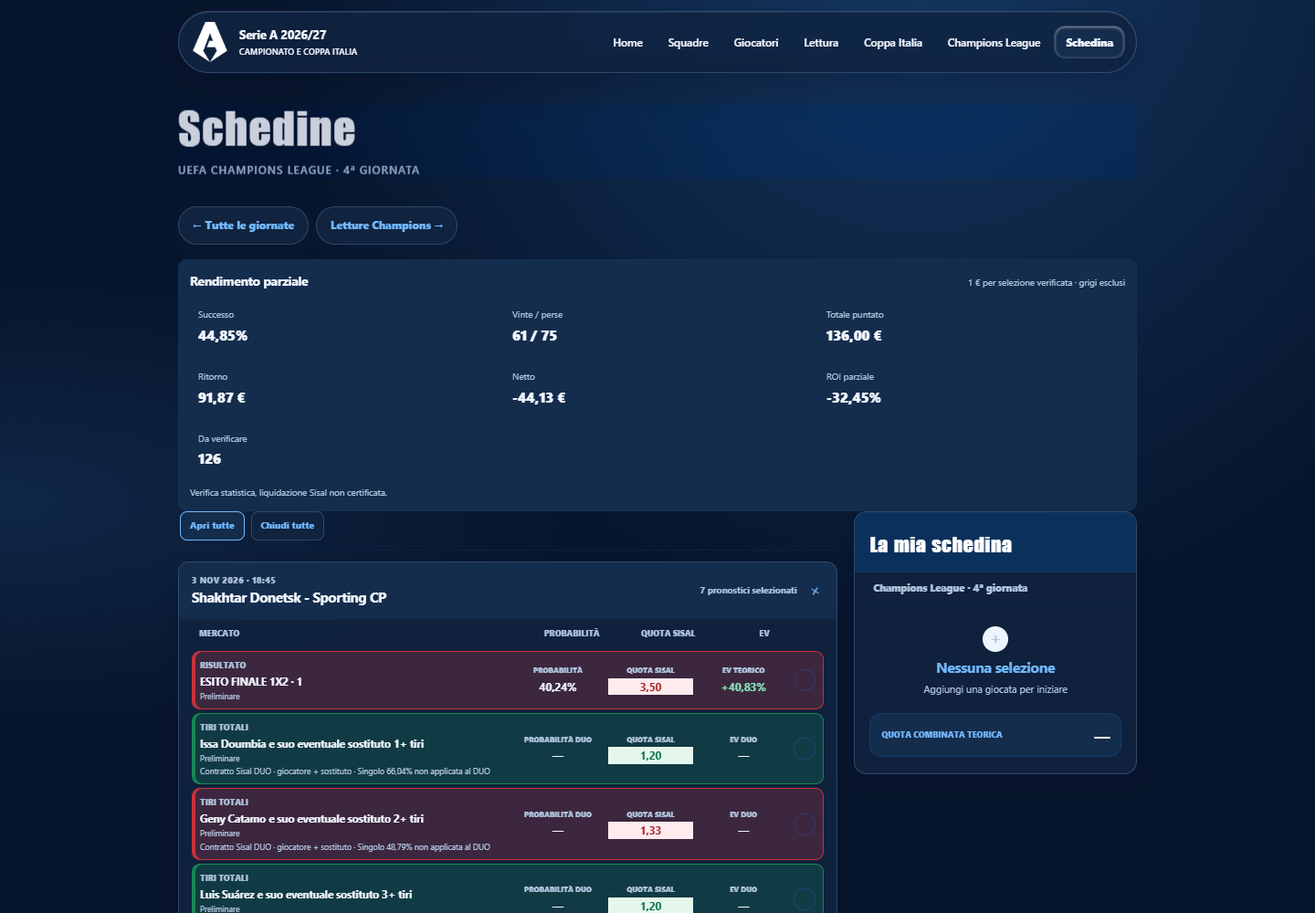
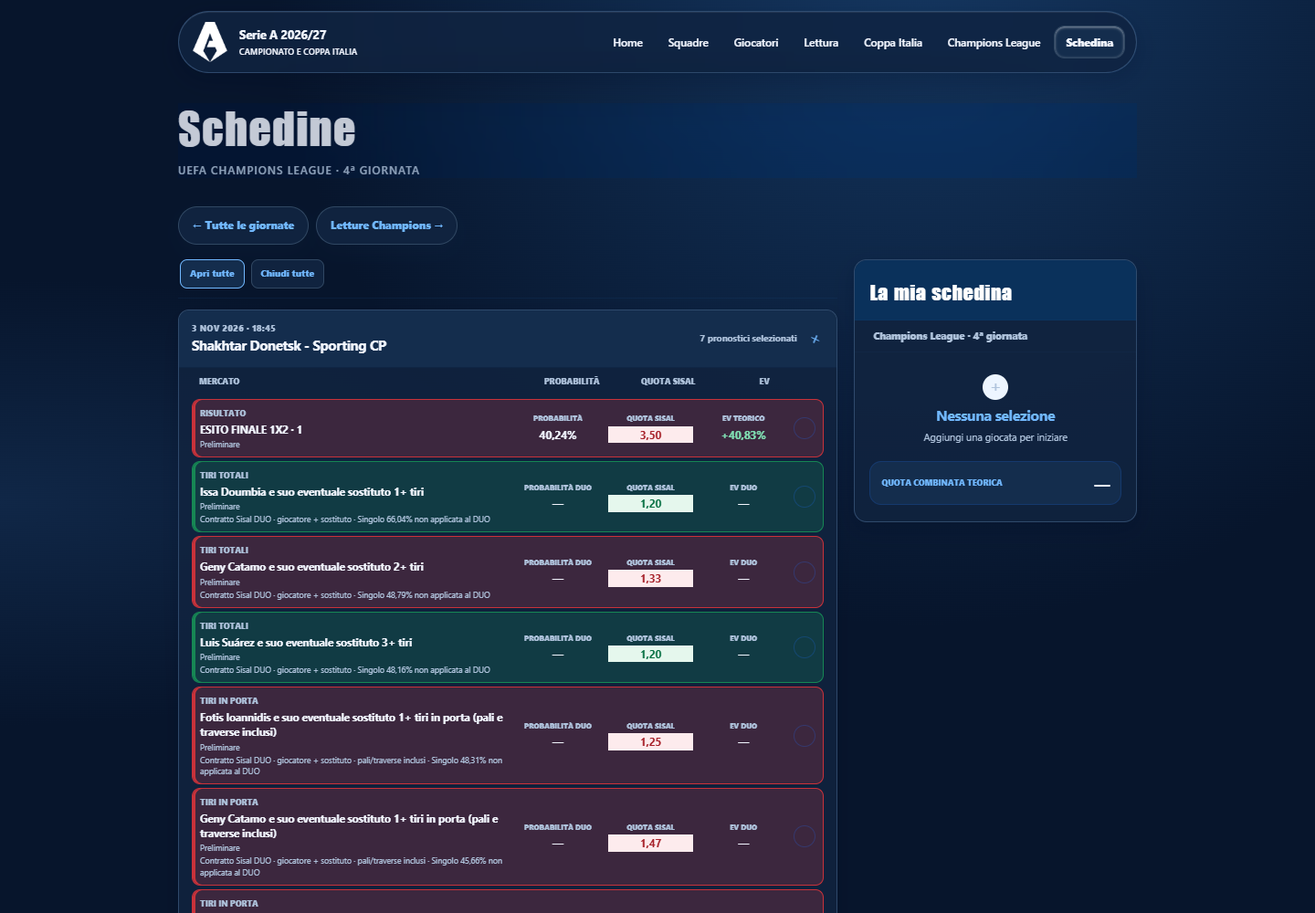
champions league

diff --git a/js/pages/betting.js b/js/pages/betting.js
@@ -372,11 +372,6 @@ export function createPage(deps){
     return `<div class="betting-stage betting-champions-stage"><header class="betting-intro"><div><p class="eyebrow">Champions League · 1ª giornata</p><h3>${data.slips.length} schedine costruite dal modello</h3></div><p>Tiri, gol e assist, multigol, due poker ammoniti e tre schedine giornaliere. Quote e proiezioni originali archiviate.</p></header><p class="betting-coverage">${data.summary.legs} selezioni complessive su ${data.summary.distinctFixtures} gare. Quota minima per selezione: 1.10.</p><p class="betting-coverage">${data.settlementSummary?.won??0} vinte · ${data.settlementSummary?.lost??0} perse · ${data.settlementSummary?.pending??data.summary.legs} da verificare. ${esc(data.settlementNote||"")}</p><div class="betting-slip-grid">${data.slips.map(championsSlipCard).join("")}</div><footer class="betting-method"><strong>Criterio Champions</strong><p>${esc(data.selectionRule)}</p><p>${esc(data.methodology)}</p><p>Quote ${esc(data.provider)} aggiornate al ${esc(dateOnly(data.oddsRetrievedAt))}. Gioca responsabilmente.</p></footer></div>`;
   }
 
-  function championsAuditEconomics(summary){
-    const signed=value=>`${value>0?"+":""}${odds(value)} €`;
-    return `<section class="betting-audit-economics" data-audit-economics data-stake="${summary.stakeEuro}" data-return="${summary.grossReturnEuro}" data-net="${summary.profitLossEuro}" data-roi="${summary.roiPct??""}" data-pending="${summary.pending}" aria-label="Rendimento parziale della partita"><header><strong>Rendimento parziale</strong><span>1 € per selezione verificata · grigi esclusi</span></header><dl>${Number.isFinite(summary.successPct)?`<div><dt>Successo</dt><dd>${pct(summary.successPct)}%</dd></div>`:""}<div><dt>Vinte / perse</dt><dd>${summary.won} / ${summary.lost}</dd></div><div><dt>Totale puntato</dt><dd>${odds(summary.stakeEuro)} €</dd></div><div><dt>Ritorno</dt><dd>${odds(summary.grossReturnEuro)} €</dd></div><div><dt>Netto</dt><dd>${signed(summary.profitLossEuro)}</dd></div><div><dt>ROI parziale</dt><dd>${summary.roiPct>0?"+":""}${metric(summary.roiPct,pct,"%")}</dd></div><div><dt>Da verificare</dt><dd>${summary.pending}</dd></div></dl><p>Verifica statistica, liquidazione Sisal non certificata.${summary.void?` ${summary.void} selezioni annullate escluse dal puntato e dal ROI.`:""}</p></section>`;
-  }
-
   function championsMd02Content(data){
     const selections=data.fixtures.flatMap(fixture=>fixture.selections||[]).filter(meetsMinimumPublicOdds);
     const stats=archiveStats({matchday:2,slips:[{legs:selections}]},null,leg=>leg.settlement||{status:"pending"});
@@ -387,7 +382,7 @@ export function createPage(deps){
     const panels=data.fixtures.map((fixture,index)=>{
       const legs=(fixture.selections||[]).filter(meetsMinimumPublicOdds);
       const marketList=legs.length?`<div class="betting-market-columns" aria-hidden="true"><span></span><span>Probabilità</span><span>Quota Sisal</span><span>EV</span><span></span></div><ol class="betting-market-list">${legs.map((leg,rowIndex)=>selectableMarketRow({leg,sourceSection:leg.marketScope==="player"?"champions-md02-individuale":"champions-md02-verdetto",showContractNote:false},rowIndex,leg.fixture,fixture)).join("")}</ol>`:`<p class="betting-market-empty">Il forecast esiste, ma non è stata trovata una quota Sisal esatta: nessuna selezione è stata forzata.</p>`;
-      return `<details class="betting-match-panel" data-match-panel data-match-id="${esc(fixture.fixtureId)}"${index===0?" open":""}><summary><span><small>${esc(dateOnly(fixture.date))} · ${esc(fixture.kickoff||"Orario N/D")}</small><strong>${esc(fixture.homeTeam)} - ${esc(fixture.awayTeam)}</strong></span><span class="betting-match-count">${legs.length} ${legs.length===1?"pronostico selezionato":"pronostici selezionati"}</span><span class="betting-match-toggle" aria-hidden="true">＋</span></summary><div class="betting-match-body">${marketList}${fixture.auditSummary?championsAuditEconomics(fixture.auditSummary):""}<a class="betting-match-reading-link" href="${esc(fixture.readingUrl)}">Apri la lettura della partita →</a></div></details>`;
+      return `<details class="betting-match-panel" data-match-panel data-match-id="${esc(fixture.fixtureId)}"${index===0?" open":""}><summary><span><small>${esc(dateOnly(fixture.date))} · ${esc(fixture.kickoff||"Orario N/D")}</small><strong>${esc(fixture.homeTeam)} - ${esc(fixture.awayTeam)}</strong></span><span class="betting-match-count">${legs.length} ${legs.length===1?"pronostico selezionato":"pronostici selezionati"}</span><span class="betting-match-toggle" aria-hidden="true">＋</span></summary><div class="betting-match-body">${marketList}<a class="betting-match-reading-link" href="${esc(fixture.readingUrl)}">Apri la lettura della partita →</a></div></details>`;
     }).join("");
     return `<section class="betting-essential betting-champions-md02-summary" aria-labelledby="champions-md02-summary-title"><h3 id="champions-md02-summary-title">In sintesi</h3><p class="betting-coverage"><strong>${data.summary.fixtures} partite · ${data.summary.predictions} pronostici</strong> · ${data.isAuditArchive?"Archivio originale · sola consultazione":`${data.summary.clickableSelections} selezioni con quota Sisal valida`}.</p><p>${esc(data.selectionRule)}</p><p><strong>Rendimento parziale:</strong> ${esc(economic)} Grigi esclusi dai calcoli; 1 € per selezione verificata.</p>${data.filteredAuditSummary?`<p>Filtro titolari: ${data.filteredAuditSummary.won} vinte · ${data.filteredAuditSummary.lost} perse · ROI parziale ${pct(data.filteredAuditSummary.roiPct)}%. I 4 contratti esclusi restano visibili soltanto nell’archivio.</p>`:""}<div class="betting-result-legend" aria-label="Legenda esiti audit"><span class="betting-result-legend--won">Verde · vinto</span><span class="betting-result-legend--lost">Rosso · perso</span><span class="betting-result-legend--pending">Grigio · da verificare</span><span class="betting-result-legend--void">Neutro · annullato</span></div></section><section class="betting-matchday-shell betting-champions-md02-markets" aria-label="Pronostici Champions della seconda giornata"><header class="betting-matchday-heading"><div class="betting-matchday-actions"><button type="button" data-match-open-all>Apri tutte</button><button type="button" data-match-close-all>Chiudi tutte</button></div></header><div class="betting-match-list">${panels}</div><footer class="betting-method"><strong>Criterio Champions</strong><p>${esc(data.methodology)}</p><p>${esc(data.settlementPolicy)}</p></footer></section>`;
   }
@@ -410,12 +405,8 @@ export function createPage(deps){
     prepareChampionsWorkspace(workspace);
     const visible=workspace.fixtures.filter(f=>!fixtureId||f.id===fixtureId),matches=new Map(visible.map(f=>[f.id,f])),teams=new Map();
     const count=workspace.all.filter(leg=>leg.suggestionAnalysis?.suggested).length;
-    const economicsLegs=workspace.matchday===1?workspace.source.slips.flatMap(s=>s.legs):workspace.all.filter(leg=>leg.catalogOrigin!=='champions-md03-individual-model'&&leg.suggestionAnalysis?.suggested);
-    const allMatches=new Map(workspace.fixtures.map(f=>[f.id,f]));
-    const stats=archiveStats({matchday:workspace.matchday,slips:[{legs:fixtureId?economicsLegs.filter(leg=>leg.matchId===fixtureId):economicsLegs}]},allMatches,leg=>leg.settlement&&workspace.matchday<3?leg.settlement:settleLeg(leg,allMatches.get(leg.matchId)));
-    const economics=stats.archiveStake?championsAuditEconomics({stakeEuro:stats.archiveStake,grossReturnEuro:stats.archiveGrossReturn,profitLossEuro:stats.archiveNetProfit,roiPct:stats.archiveProfitPct,successPct:stats.archiveStake>0?stats.archiveSuccessPct:null,won:stats.archiveWins,lost:stats.archiveStake-stats.archiveWins,pending:stats.archivePending,void:stats.archiveVoids}):'<p class="betting-coverage">Da giocare · importo giocato, vincite, netto, ROI e successo: N/D. Simulazione di 1 € per previsione con esito verificato.</p>';
     // Both competitions use the same rows, match panels, combo renderer and personal controller.
-    return `<section class="betting-round-page betting-round-page--workspace betting-round-page--champions" data-champions-workspace="${workspace.matchday}">${fixtureId&&workspace.matchday===3?'<header class="rd-section-heading"><span class="rd-section-number">03</span><h2>Pronostici e MyCombo</h2></header>':""}<header class="betting-round-heading"><p class="eyebrow">Champions League · ${esc(workspace.season)}</p><h2>${workspace.matchday}ª giornata${fixtureId?" · pronostici":""}</h2></header>${workspace.matchday===3?"":economics}<div class="betting-workspace"><div class="betting-workspace-content">${matchdayWorkspaceContent(workspace,[],matches,teams,workspace.matchday)}</div><aside class="betting-personal-column" data-personal-host aria-label="Costruttore della schedina personale"></aside></div></section>`;
+    return `<section class="betting-round-page betting-round-page--workspace betting-round-page--champions" data-champions-workspace="${workspace.matchday}">${fixtureId&&workspace.matchday===3?'<header class="rd-section-heading"><span class="rd-section-number">03</span><h2>Pronostici e MyCombo</h2></header>':""}<header class="betting-round-heading"><p class="eyebrow">Champions League · ${esc(workspace.season)}</p><h2>${workspace.matchday}ª giornata${fixtureId?" · pronostici":""}</h2></header><div class="betting-workspace"><div class="betting-workspace-content">${matchdayWorkspaceContent(workspace,[],matches,teams,workspace.matchday)}</div><aside class="betting-personal-column" data-personal-host aria-label="Costruttore della schedina personale"></aside></div></section>`;
   }
 
   function mountChampionsWorkspace(workspace){
@@ -442,7 +433,8 @@ export function createPage(deps){
       const number=index+1;
       return {date:firstDate([...matchById.values()].filter(m=>m.matchday===number)),html:archiveCard(data,number,matchById)};
     });
-    const championsMd04=await load('schedina-champions-md04.json');
+    const md4Workspace=await loadChampionsWorkspaceMd3Derived(load,4);
+    const championsMd04={...md4Workspace.source,slips:[{legs:md4Workspace.all.filter(leg=>leg.suggestionAnalysis?.suggested)}]};
     for(const [index,data] of [champions,championsMd02,championsMd03,championsMd04].entries()){
       const number=index+1;
       cards.push({date:firstDate(championsCalendar.fixtures.filter(f=>f.matchday===number)),html:championsArchiveCard(data,number)});

diff --git a/champions-league.html b/champions-league.html
@@ -1,2 +1,2 @@
 <!doctype html>
-<html lang="it"><head><meta charset="utf-8"><meta name="viewport" content="width=device-width,initial-scale=1"><meta name="description" content="Serie A e Coppa Italia 2026/27: Champions League"><title>Champions League | Serie A 2026/27</title><link rel="icon" type="image/png" href="assets/images/serie-a-logo-mark.png"><link rel="manifest" href="manifest.webmanifest"><meta name="theme-color" content="#102541"><meta name="apple-mobile-web-app-capable" content="yes"><meta name="apple-mobile-web-app-status-bar-style" content="default"><meta name="apple-mobile-web-app-title" content="Serie A"><link rel="apple-touch-icon" href="assets/app/icon-180.png"><link rel="stylesheet" href="css/install-app.css?v=2"><script defer src="js/install-app.js?v=2"></script><link rel="preconnect" href="https://fonts.googleapis.com"><link rel="preconnect" href="https://fonts.gstatic.com" crossorigin><link href="https://fonts.googleapis.com/css2?family=Anton&family=Inter:ital,opsz,wght@0,14..32,100..900;1,14..32,100..900&display=swap" rel="stylesheet"><!-- page-styles:start --><script data-page-styles>document.write(new URLSearchParams(location.search).has('match')?"<link rel=\"stylesheet\" href=\"css/pages/champions-detail.css?v=19476e1e3594\" data-reading-detail-css>":"<link rel=\"stylesheet\" href=\"css/pages/champions.css?v=0b01f1933505\">")</script><!-- page-styles:end --><script src="js/public-presentation.js?v=20261016-public-policy"></script></head><body data-page="champions"><script src="js/initial-presentation.js?v=7167ca25b816"></script><header id="site-top" class="site-header"><a class="brand" href="index.html"><span class="brand-mark"><img src="assets/images/optimized/serie-a-logo-mark.webp" alt=""></span><span><strong>Serie A 2026/27</strong><small>Campionato e Coppa Italia</small></span></a><button class="menu-button" type="button" aria-controls="site-nav" aria-expanded="false">Menu</button><nav id="site-nav" class="site-nav" aria-label="Navigazione principale"><a class="page-link" data-page-link="home" href="index.html">Home</a><a class="page-link" data-page-link="team-stats" href="statistiche-squadre.html">Squadre</a><a class="page-link" data-page-link="player-stats" href="statistiche-giocatori.html">Giocatori</a><a class="page-link" data-page-link="readings" href="lettura.html">Lettura</a><a class="page-link" data-page-link="cup" href="coppa-italia.html">Coppa Italia</a><a class="page-link active" data-page-link="champions" href="champions-league.html">Champions League</a><a class="page-link" data-page-link="betting" href="schedina.html">Schedina</a></nav></header><main id="app" tabindex="-1"><section class="loading"><p class="eyebrow">Caricamento</p><h1>Champions League</h1></section></main><footer class="site-footer"><div class="site-footer-inner"><div class="site-footer-top"><div class="site-footer-intro"><a class="footer-brand" href="index.html"><span class="footer-brand-mark"><img src="assets/images/optimized/serie-a-logo-mark.webp" alt=""></span><span><strong>Serie A 2026/27</strong><small>Campionato e Coppa Italia</small></span></a><p>Calendario, rose, statistiche e letture della stagione raccolti in un unico spazio.</p><span class="footer-season">Stagione 2026/27</span></div><nav class="footer-nav" aria-label="Navigazione nel footer"><div><strong>Campionato</strong><a href="index.html">Home</a><a href="statistiche-squadre.html">Squadre</a><a href="statistiche-giocatori.html">Giocatori</a></div><div><strong>Approfondimenti</strong><a href="lettura.html">Lettura</a><a href="coppa-italia.html">Coppa Italia</a><a href="champions-league.html">Champions League</a><a href="schedina.html">Schedina</a></div></nav></div><div class="site-footer-bottom"><p>Progetto statico indipendente</p><a href="#site-top">Torna su <span aria-hidden="true">↑</span></a></div></div></footer><script type="module" src="js/app.js?v=20261103-champions-referee-stats-v1-headings-f97c352a477e"></script></body></html>
+<html lang="it"><head><meta charset="utf-8"><meta name="viewport" content="width=device-width,initial-scale=1"><meta name="description" content="Serie A e Coppa Italia 2026/27: Champions League"><title>Champions League | Serie A 2026/27</title><link rel="icon" type="image/png" href="assets/images/serie-a-logo-mark.png"><link rel="manifest" href="manifest.webmanifest"><meta name="theme-color" content="#102541"><meta name="apple-mobile-web-app-capable" content="yes"><meta name="apple-mobile-web-app-status-bar-style" content="default"><meta name="apple-mobile-web-app-title" content="Serie A"><link rel="apple-touch-icon" href="assets/app/icon-180.png"><link rel="stylesheet" href="css/install-app.css?v=2"><script defer src="js/install-app.js?v=2"></script><link rel="preconnect" href="https://fonts.googleapis.com"><link rel="preconnect" href="https://fonts.gstatic.com" crossorigin><link href="https://fonts.googleapis.com/css2?family=Anton&family=Inter:ital,opsz,wght@0,14..32,100..900;1,14..32,100..900&display=swap" rel="stylesheet"><!-- page-styles:start --><script data-page-styles>document.write(new URLSearchParams(location.search).has('match')?"<link rel=\"stylesheet\" href=\"css/pages/champions-detail.css?v=9a7d83be6a18\" data-reading-detail-css>":"<link rel=\"stylesheet\" href=\"css/pages/champions.css?v=21221341a264\">")</script><!-- page-styles:end --><script src="js/public-presentation.js?v=20261016-public-policy"></script></head><body data-page="champions"><script src="js/initial-presentation.js?v=7167ca25b816"></script><header id="site-top" class="site-header"><a class="brand" href="index.html"><span class="brand-mark"><img src="assets/images/optimized/serie-a-logo-mark.webp" alt=""></span><span><strong>Serie A 2026/27</strong><small>Campionato e Coppa Italia</small></span></a><button class="menu-button" type="button" aria-controls="site-nav" aria-expanded="false">Menu</button><nav id="site-nav" class="site-nav" aria-label="Navigazione principale"><a class="page-link" data-page-link="home" href="index.html">Home</a><a class="page-link" data-page-link="team-stats" href="statistiche-squadre.html">Squadre</a><a class="page-link" data-page-link="player-stats" href="statistiche-giocatori.html">Giocatori</a><a class="page-link" data-page-link="readings" href="lettura.html">Lettura</a><a class="page-link" data-page-link="cup" href="coppa-italia.html">Coppa Italia</a><a class="page-link active" data-page-link="champions" href="champions-league.html">Champions League</a><a class="page-link" data-page-link="betting" href="schedina.html">Schedina</a></nav></header><main id="app" tabindex="-1"><section class="loading"><p class="eyebrow">Caricamento</p><h1>Champions League</h1></section></main><footer class="site-footer"><div class="site-footer-inner"><div class="site-footer-top"><div class="site-footer-intro"><a class="footer-brand" href="index.html"><span class="footer-brand-mark"><img src="assets/images/optimized/serie-a-logo-mark.webp" alt=""></span><span><strong>Serie A 2026/27</strong><small>Campionato e Coppa Italia</small></span></a><p>Calendario, rose, statistiche e letture della stagione raccolti in un unico spazio.</p><span class="footer-season">Stagione 2026/27</span></div><nav class="footer-nav" aria-label="Navigazione nel footer"><div><strong>Campionato</strong><a href="index.html">Home</a><a href="statistiche-squadre.html">Squadre</a><a href="statistiche-giocatori.html">Giocatori</a></div><div><strong>Approfondimenti</strong><a href="lettura.html">Lettura</a><a href="coppa-italia.html">Coppa Italia</a><a href="champions-league.html">Champions League</a><a href="schedina.html">Schedina</a></div></nav></div><div class="site-footer-bottom"><p>Progetto statico indipendente</p><a href="#site-top">Torna su <span aria-hidden="true">↑</span></a></div></div></footer><script type="module" src="js/app.js?v=20261103-champions-referee-stats-v1-headings-991349fccba3"></script></body></html>

diff --git a/schedina.html b/schedina.html
@@ -1,2 +1,2 @@
 <!doctype html>
-<html lang="it"><head><meta charset="utf-8"><meta name="viewport" content="width=device-width,initial-scale=1"><meta name="description" content="Serie A e Coppa Italia 2026/27: Schedina"><title>Schedina | Serie A 2026/27</title><link rel="icon" type="image/png" href="assets/images/serie-a-logo-mark.png"><link rel="manifest" href="manifest.webmanifest"><meta name="theme-color" content="#102541"><meta name="apple-mobile-web-app-capable" content="yes"><meta name="apple-mobile-web-app-status-bar-style" content="default"><meta name="apple-mobile-web-app-title" content="Serie A"><link rel="apple-touch-icon" href="assets/app/icon-180.png"><link rel="stylesheet" href="css/install-app.css?v=2"><script defer src="js/install-app.js?v=2"></script><link rel="preconnect" href="https://fonts.googleapis.com"><link rel="preconnect" href="https://fonts.gstatic.com" crossorigin><link href="https://fonts.googleapis.com/css2?family=Anton&family=Inter:ital,opsz,wght@0,14..32,100..900;1,14..32,100..900&display=swap" rel="stylesheet"><!-- page-styles:start --><link rel="stylesheet" href="css/pages/betting.css?v=775a3706494e"><!-- page-styles:end --><script src="js/public-presentation.js?v=20261016-schedina-selection-rows-v2"></script></head><body data-page="betting"><script src="js/initial-presentation.js?v=7167ca25b816"></script><header id="site-top" class="site-header"><a class="brand" href="index.html"><span class="brand-mark"><img src="assets/images/optimized/serie-a-logo-mark.webp" alt=""></span><span><strong>Serie A 2026/27</strong><small>Campionato e Coppa Italia</small></span></a><button class="menu-button" type="button" aria-controls="site-nav" aria-expanded="false">Menu</button><nav id="site-nav" class="site-nav" aria-label="Navigazione principale"><a class="page-link" data-page-link="home" href="index.html">Home</a><a class="page-link" data-page-link="team-stats" href="statistiche-squadre.html">Squadre</a><a class="page-link" data-page-link="player-stats" href="statistiche-giocatori.html">Giocatori</a><a class="page-link" data-page-link="readings" href="lettura.html">Lettura</a><a class="page-link" data-page-link="cup" href="coppa-italia.html">Coppa Italia</a><a class="page-link" data-page-link="champions" href="champions-league.html">Champions League</a><a class="page-link active" data-page-link="betting" href="schedina.html">Schedina</a></nav></header><main id="app" tabindex="-1"><section class="loading"><p class="eyebrow">Caricamento</p><h1>Schedina</h1></section></main><footer class="site-footer"><div class="site-footer-inner"><div class="site-footer-top"><div class="site-footer-intro"><a class="footer-brand" href="index.html"><span class="footer-brand-mark"><img src="assets/images/optimized/serie-a-logo-mark.webp" alt=""></span><span><strong>Serie A 2026/27</strong><small>Campionato e Coppa Italia</small></span></a><p>Calendario, rose, statistiche e letture della stagione raccolti in un unico spazio.</p><span class="footer-season">Stagione 2026/27</span></div><nav class="footer-nav" aria-label="Navigazione nel footer"><div><strong>Campionato</strong><a href="index.html">Home</a><a href="statistiche-squadre.html">Squadre</a><a href="statistiche-giocatori.html">Giocatori</a></div><div><strong>Approfondimenti</strong><a href="lettura.html">Lettura</a><a href="coppa-italia.html">Coppa Italia</a><a href="champions-league.html">Champions League</a><a href="schedina.html">Schedina</a></div></nav></div><div class="site-footer-bottom"><p>Progetto statico indipendente</p><a href="#site-top">Torna su <span aria-hidden="true">↑</span></a></div></div></footer><script type="module" src="js/app.js?v=20261102-champions-no-draw-v1-headings-f97c352a477e"></script></body></html>
+<html lang="it"><head><meta charset="utf-8"><meta name="viewport" content="width=device-width,initial-scale=1"><meta name="description" content="Serie A e Coppa Italia 2026/27: Schedina"><title>Schedina | Serie A 2026/27</title><link rel="icon" type="image/png" href="assets/images/serie-a-logo-mark.png"><link rel="manifest" href="manifest.webmanifest"><meta name="theme-color" content="#102541"><meta name="apple-mobile-web-app-capable" content="yes"><meta name="apple-mobile-web-app-status-bar-style" content="default"><meta name="apple-mobile-web-app-title" content="Serie A"><link rel="apple-touch-icon" href="assets/app/icon-180.png"><link rel="stylesheet" href="css/install-app.css?v=2"><script defer src="js/install-app.js?v=2"></script><link rel="preconnect" href="https://fonts.googleapis.com"><link rel="preconnect" href="https://fonts.gstatic.com" crossorigin><link href="https://fonts.googleapis.com/css2?family=Anton&family=Inter:ital,opsz,wght@0,14..32,100..900;1,14..32,100..900&display=swap" rel="stylesheet"><!-- page-styles:start --><link rel="stylesheet" href="css/pages/betting.css?v=2ac2e037880e"><!-- page-styles:end --><script src="js/public-presentation.js?v=20261016-schedina-selection-rows-v2"></script></head><body data-page="betting"><script src="js/initial-presentation.js?v=7167ca25b816"></script><header id="site-top" class="site-header"><a class="brand" href="index.html"><span class="brand-mark"><img src="assets/images/optimized/serie-a-logo-mark.webp" alt=""></span><span><strong>Serie A 2026/27</strong><small>Campionato e Coppa Italia</small></span></a><button class="menu-button" type="button" aria-controls="site-nav" aria-expanded="false">Menu</button><nav id="site-nav" class="site-nav" aria-label="Navigazione principale"><a class="page-link" data-page-link="home" href="index.html">Home</a><a class="page-link" data-page-link="team-stats" href="statistiche-squadre.html">Squadre</a><a class="page-link" data-page-link="player-stats" href="statistiche-giocatori.html">Giocatori</a><a class="page-link" data-page-link="readings" href="lettura.html">Lettura</a><a class="page-link" data-page-link="cup" href="coppa-italia.html">Coppa Italia</a><a class="page-link" data-page-link="champions" href="champions-league.html">Champions League</a><a class="page-link active" data-page-link="betting" href="schedina.html">Schedina</a></nav></header><main id="app" tabindex="-1"><section class="loading"><p class="eyebrow">Caricamento</p><h1>Schedina</h1></section></main><footer class="site-footer"><div class="site-footer-inner"><div class="site-footer-top"><div class="site-footer-intro"><a class="footer-brand" href="index.html"><span class="footer-brand-mark"><img src="assets/images/optimized/serie-a-logo-mark.webp" alt=""></span><span><strong>Serie A 2026/27</strong><small>Campionato e Coppa Italia</small></span></a><p>Calendario, rose, statistiche e letture della stagione raccolti in un unico spazio.</p><span class="footer-season">Stagione 2026/27</span></div><nav class="footer-nav" aria-label="Navigazione nel footer"><div><strong>Campionato</strong><a href="index.html">Home</a><a href="statistiche-squadre.html">Squadre</a><a href="statistiche-giocatori.html">Giocatori</a></div><div><strong>Approfondimenti</strong><a href="lettura.html">Lettura</a><a href="coppa-italia.html">Coppa Italia</a><a href="champions-league.html">Champions League</a><a href="schedina.html">Schedina</a></div></nav></div><div class="site-footer-bottom"><p>Progetto statico indipendente</p><a href="#site-top">Torna su <span aria-hidden="true">↑</span></a></div></div></footer><script type="module" src="js/app.js?v=20261102-champions-no-draw-v1-headings-991349fccba3"></script></body></html>

diff --git a/css/pages/champions-detail.css b/css/pages/champions-detail.css
@@ -3057,16 +3057,16 @@ body,button,input,select,textarea{font-family:var(--font-body)}
 .betting-champions-md02-markets .betting-market-row[data-settlement="lost"]{border-color:rgba(201,50,58,.3);background:linear-gradient(90deg,#f8dfe2,#fdf1f2);box-shadow:inset 3px 0 #c9323a}
 .betting-champions-md02-markets .betting-market-row[data-settlement="pending"]{border-color:#b6c1cc;background:linear-gradient(90deg,#e1e7ed,#f0f3f6);box-shadow:inset 3px 0 #7b8b9b}
 .betting-champions-md02-markets .betting-market-row[data-settlement="void"]{border-color:#c4cdd5;background:#f1f3f5;box-shadow:inset 3px 0 #a1adb8}
-.betting-audit-economics{padding:12px;border:1px solid rgba(22,72,126,.13);border-radius:10px;background:rgba(238,246,252,.8)}
-.betting-audit-economics>header{display:flex;flex-wrap:wrap;align-items:baseline;justify-content:space-between;gap:6px 14px}
-.betting-audit-economics>header>strong{font-size:14px}
-.betting-audit-economics>header>span,.betting-audit-economics>p{color:#52677d;font-size:10px;line-height:1.5}
-.betting-audit-economics dl{display:grid;grid-template-columns:repeat(3,minmax(0,1fr));gap:8px;margin:10px 0 0}
-.betting-audit-economics dl>div{min-width:0;padding:8px;border:1px solid rgba(22,72,126,.09);border-radius:8px;background:rgba(255,255,255,.72)}
-.betting-audit-economics dt{color:#52677d;font-size:10px}
-.betting-audit-economics dd{margin:3px 0 0;color:#142c40;font-size:15px;font-weight:800;font-variant-numeric:tabular-nums}
-.betting-audit-economics>p{margin:8px 0 0}
-@media(max-width:580px){.betting-audit-economics dl{grid-template-columns:repeat(2,minmax(0,1fr))}}
+
+
+
+
+
+
+
+
+
+
 .betting-round-page--audit .betting-workspace-content{grid-template-columns:minmax(0,1fr)}
 .betting-round-page--audit .betting-workspace-content>section{min-width:0}
 

diff --git a/css/pages/champions.css b/css/pages/champions.css
@@ -3057,16 +3057,16 @@ body,button,input,select,textarea{font-family:var(--font-body)}
 .betting-champions-md02-markets .betting-market-row[data-settlement="lost"]{border-color:rgba(201,50,58,.3);background:linear-gradient(90deg,#f8dfe2,#fdf1f2);box-shadow:inset 3px 0 #c9323a}
 .betting-champions-md02-markets .betting-market-row[data-settlement="pending"]{border-color:#b6c1cc;background:linear-gradient(90deg,#e1e7ed,#f0f3f6);box-shadow:inset 3px 0 #7b8b9b}
 .betting-champions-md02-markets .betting-market-row[data-settlement="void"]{border-color:#c4cdd5;background:#f1f3f5;box-shadow:inset 3px 0 #a1adb8}
-.betting-audit-economics{padding:12px;border:1px solid rgba(22,72,126,.13);border-radius:10px;background:rgba(238,246,252,.8)}
-.betting-audit-economics>header{display:flex;flex-wrap:wrap;align-items:baseline;justify-content:space-between;gap:6px 14px}
-.betting-audit-economics>header>strong{font-size:14px}
-.betting-audit-economics>header>span,.betting-audit-economics>p{color:#52677d;font-size:10px;line-height:1.5}
-.betting-audit-economics dl{display:grid;grid-template-columns:repeat(3,minmax(0,1fr));gap:8px;margin:10px 0 0}
-.betting-audit-economics dl>div{min-width:0;padding:8px;border:1px solid rgba(22,72,126,.09);border-radius:8px;background:rgba(255,255,255,.72)}
-.betting-audit-economics dt{color:#52677d;font-size:10px}
-.betting-audit-economics dd{margin:3px 0 0;color:#142c40;font-size:15px;font-weight:800;font-variant-numeric:tabular-nums}
-.betting-audit-economics>p{margin:8px 0 0}
-@media(max-width:580px){.betting-audit-economics dl{grid-template-columns:repeat(2,minmax(0,1fr))}}
+
+
+
+
+
+
+
+
+
+
 .betting-round-page--audit .betting-workspace-content{grid-template-columns:minmax(0,1fr)}
 .betting-round-page--audit .betting-workspace-content>section{min-width:0}
 

diff --git a/css/pages/betting.css b/css/pages/betting.css
@@ -3037,16 +3037,16 @@ body[data-page="betting"] main>.hero .lead{font-size:14px}
 .betting-champions-md02-markets .betting-market-row[data-settlement="lost"]{border-color:rgba(201,50,58,.3);background:linear-gradient(90deg,#f8dfe2,#fdf1f2);box-shadow:inset 3px 0 #c9323a}
 .betting-champions-md02-markets .betting-market-row[data-settlement="pending"]{border-color:#b6c1cc;background:linear-gradient(90deg,#e1e7ed,#f0f3f6);box-shadow:inset 3px 0 #7b8b9b}
 .betting-champions-md02-markets .betting-market-row[data-settlement="void"]{border-color:#c4cdd5;background:#f1f3f5;box-shadow:inset 3px 0 #a1adb8}
-.betting-audit-economics{padding:12px;border:1px solid rgba(22,72,126,.13);border-radius:10px;background:rgba(238,246,252,.8)}
-.betting-audit-economics>header{display:flex;flex-wrap:wrap;align-items:baseline;justify-content:space-between;gap:6px 14px}
-.betting-audit-economics>header>strong{font-size:14px}
-.betting-audit-economics>header>span,.betting-audit-economics>p{color:#52677d;font-size:10px;line-height:1.5}
-.betting-audit-economics dl{display:grid;grid-template-columns:repeat(3,minmax(0,1fr));gap:8px;margin:10px 0 0}
-.betting-audit-economics dl>div{min-width:0;padding:8px;border:1px solid rgba(22,72,126,.09);border-radius:8px;background:rgba(255,255,255,.72)}
-.betting-audit-economics dt{color:#52677d;font-size:10px}
-.betting-audit-economics dd{margin:3px 0 0;color:#142c40;font-size:15px;font-weight:800;font-variant-numeric:tabular-nums}
-.betting-audit-economics>p{margin:8px 0 0}
-@media(max-width:580px){.betting-audit-economics dl{grid-template-columns:repeat(2,minmax(0,1fr))}}
+
+
+
+
+
+
+
+
+
+
 .betting-round-page--audit .betting-workspace-content{grid-template-columns:minmax(0,1fr)}
 .betting-round-page--audit .betting-workspace-content>section{min-width:0}
 

diff --git a/js/pages/champions.js b/js/pages/champions.js
@@ -548,7 +548,7 @@ export function createPage(deps){
     // Le Letture MD3 esistono nel calendario e vengono gestite da render()
     // anche se non sono presenti negli archivi pilot MD1/MD2.
     const sharedScenarios=await load('../generated/champions-shared-scenarios.json');
-    const pilotByFixture=new Map([...pilot.fixtures,...md2Summary.fixtures,...sharedScenarios.fixtures.filter(p=>data.fixtures.some(f=>f.id===p.fixtureId&&f.status==='scheduled'))].map(fixture=>[fixture.fixtureId,fixture]));
+    const pilotByFixture=new Map([...pilot.fixtures,...md2Summary.fixtures,...sharedScenarios.fixtures.filter(p=>data.fixtures.some(f=>f.id===p.fixtureId&&(f.status==='scheduled'||f.matchday===4&&f.status==='finished')))].map(fixture=>[fixture.fixtureId,fixture]));
     for(const fixture of data.fixtures){
       if(fixture.matchday===3)pilotByFixture.set(fixture.id,{fixtureId:fixture.id});
     }
